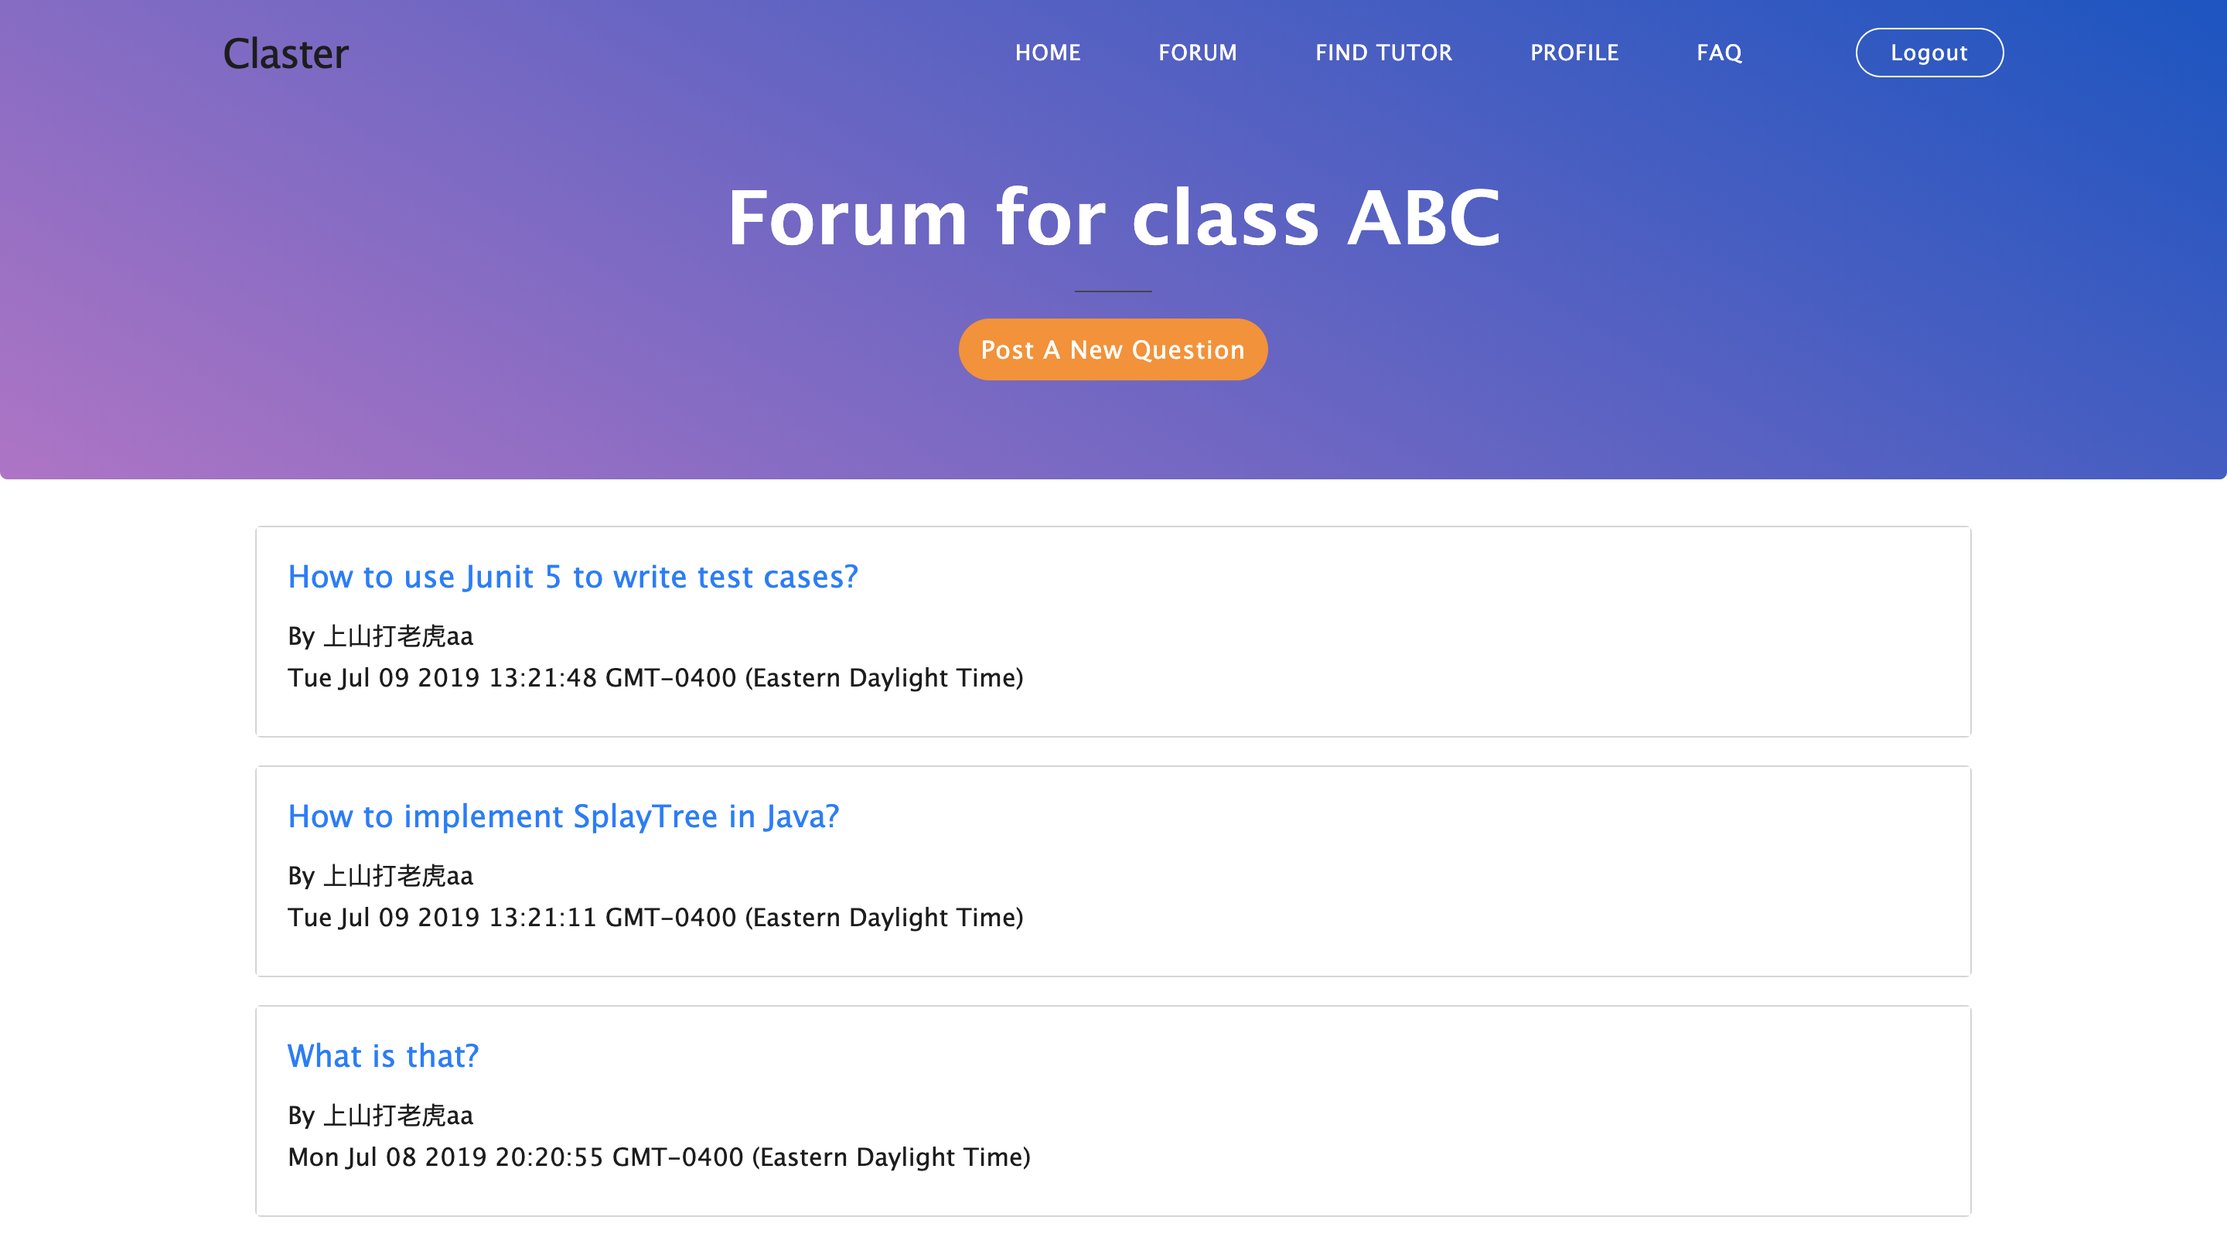
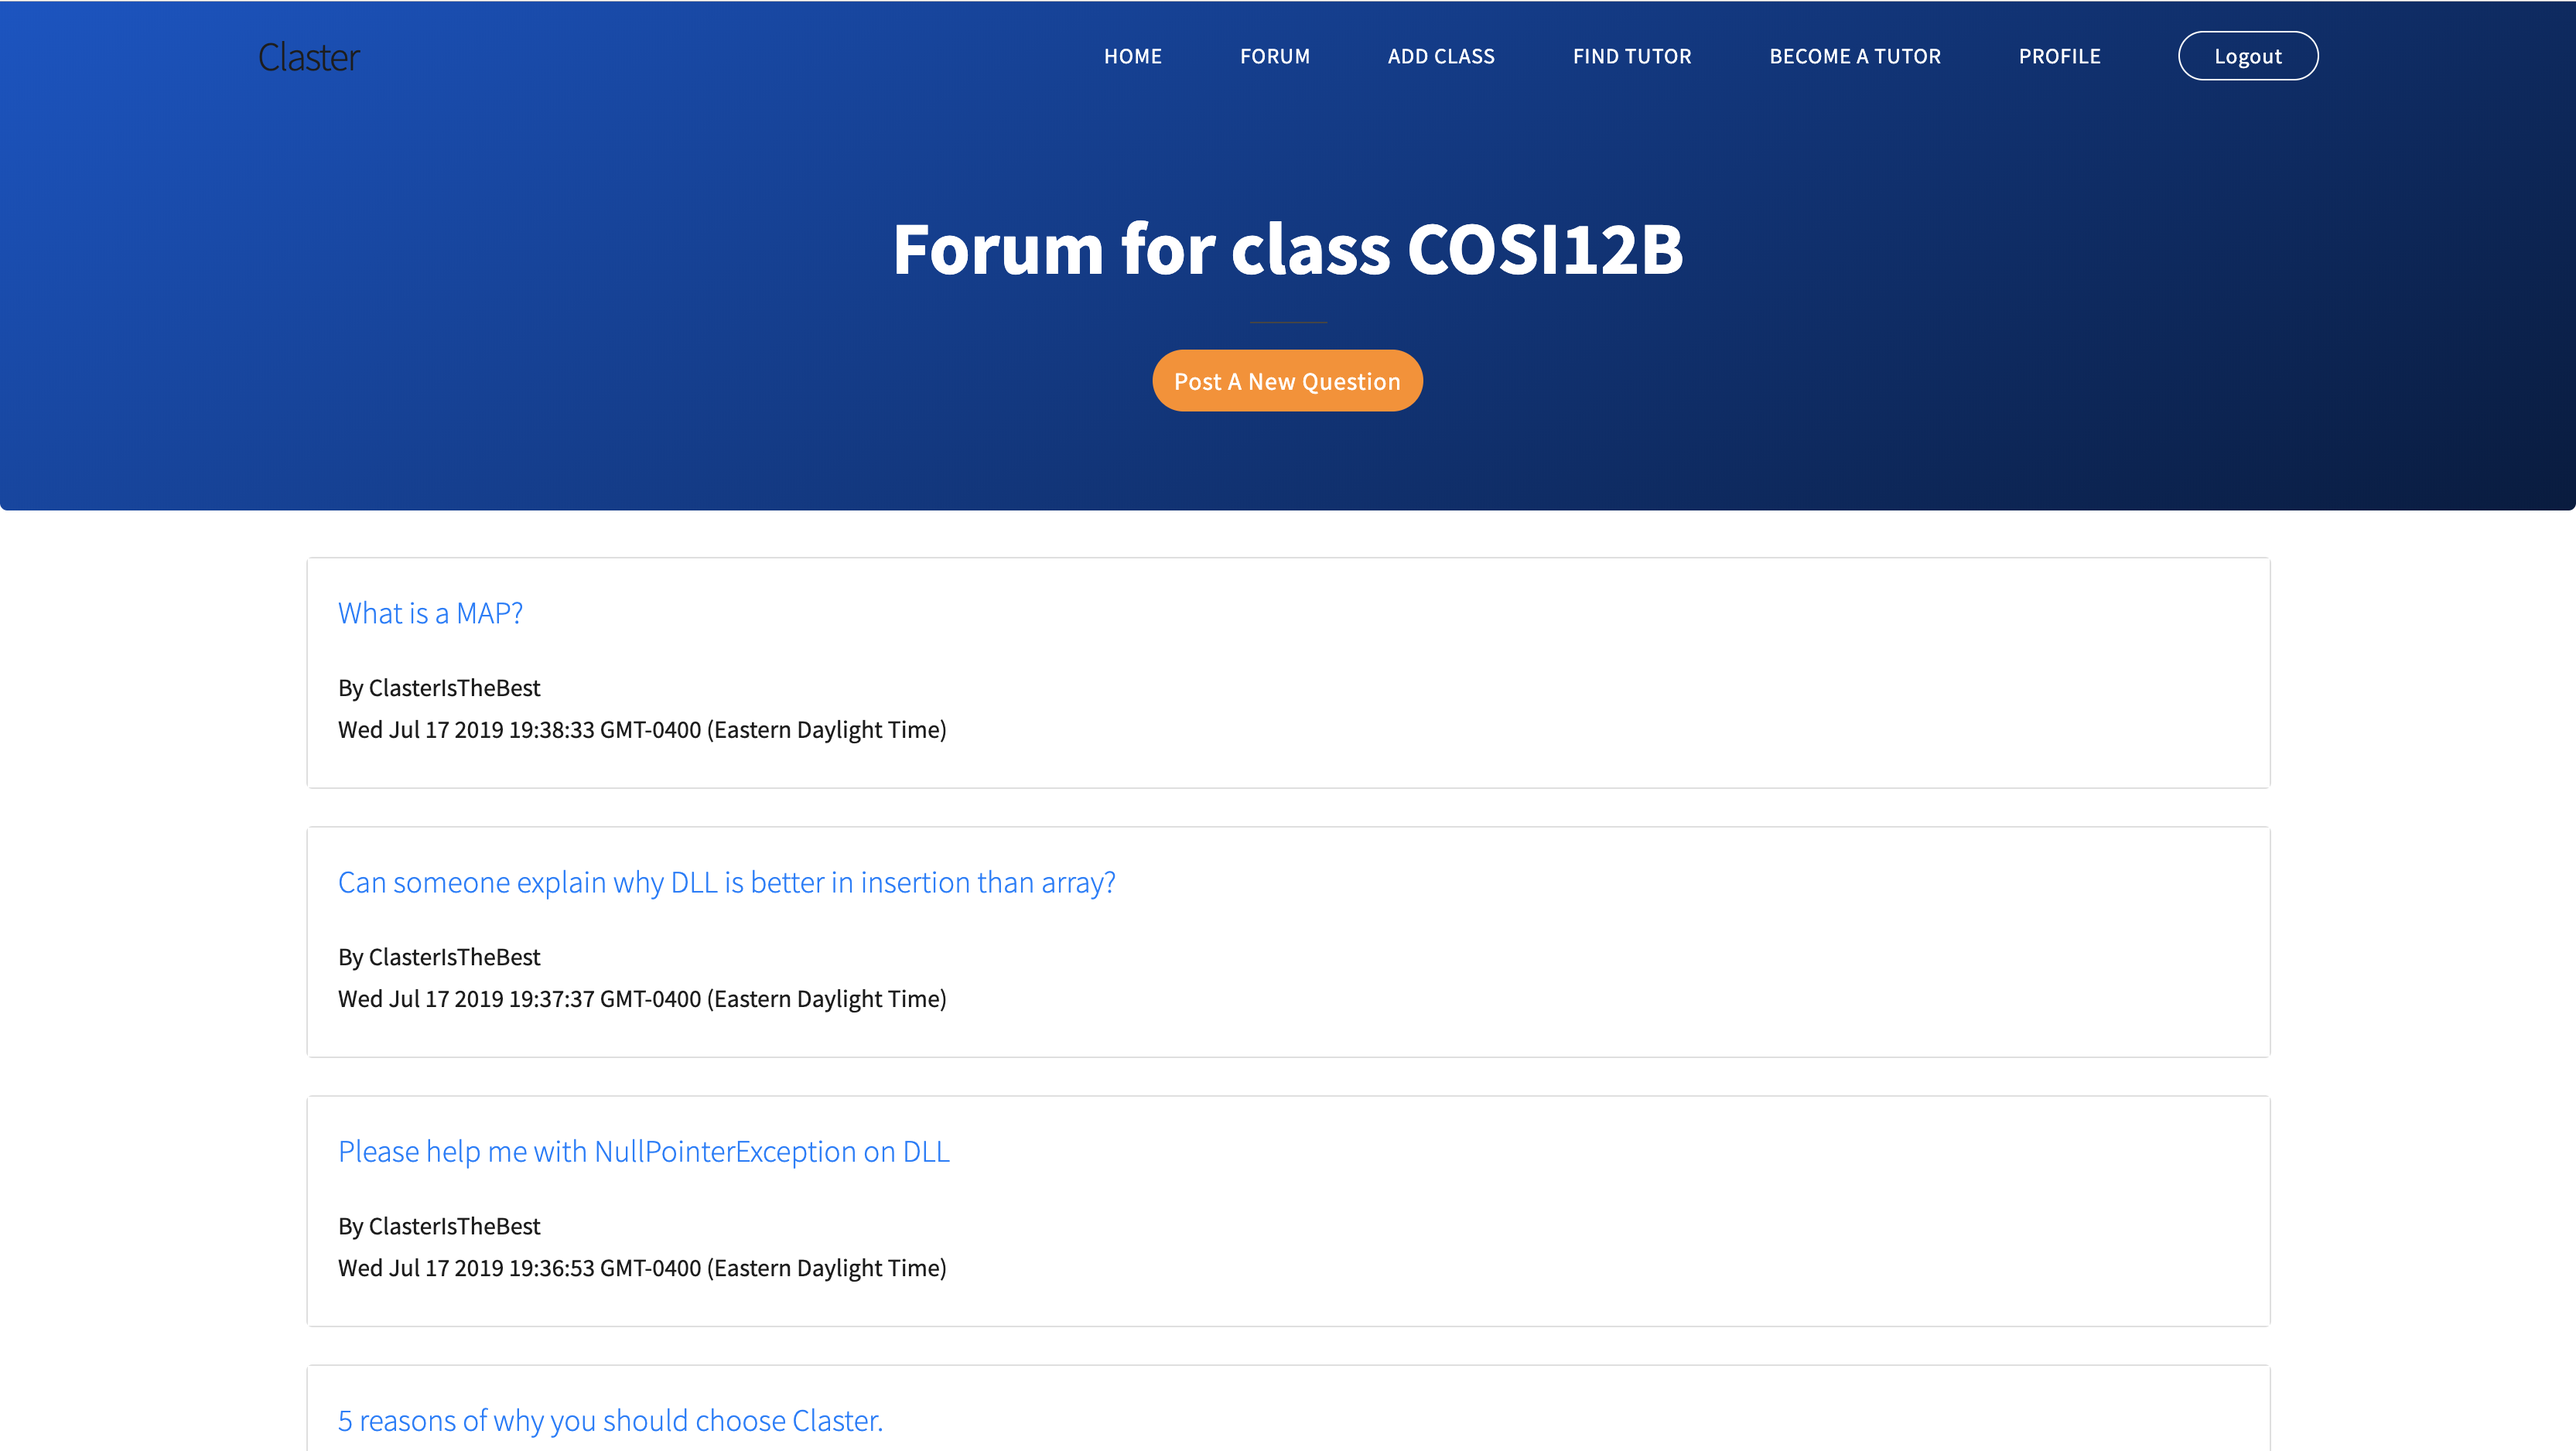
fix sync problem

diff --git a/app.js b/app.js
@@ -10,6 +10,7 @@ var logger = require('morgan');
 session = require("express-session"),
 bodyParser = require("body-parser"),
 User = require( './models/User' ),
+Answer = require( './models/Answer' ),
 flash = require('connect-flash')
 
 
@@ -52,6 +53,8 @@ db.once('open', function() {
 
 //start the app.js
 var app = express();
+
+//set up AWS S3
 const aws = require('aws-sdk');
 
 /*
@@ -64,7 +67,6 @@ aws.config.region = 'us-east-2';
 * Load the S3 information from the environment variables.
 */
 const S3_BUCKET = process.env.S3_BUCKET;
-
 
 // view engine setup
 app.set('views', path.join(__dirname, 'views'));
@@ -183,6 +185,11 @@ function isLoggedIn(req, res, next) {
 
 // END OF THE Google AUTHENTICATION ROUTES
 
+
+// =====================================
+// INDEX ===============================
+// =====================================
+
 //we can use this or the index router to handle req
 app.get('/', function(req, res, next){
   res.render('index', {
@@ -193,17 +200,19 @@ app.get('/', function(req, res, next){
 app.post('/:userId/enroll', isLoggedIn, classController.lookupClass, classController.addClass);
 
 // =====================================
-// Class =============================
+// Class ===============================
 // =====================================
-
-app.get('/classNotFound', isLoggedIn, function(req, res, next){
-  res.render('classNotFound')
-})
 
 //create new classes
 app.get('/classes', isLoggedIn, classController.getAllClasses)
 
+//process the form
 app.post('/createClass', isLoggedIn, classController.checkUnique, classController.saveClass);
+
+//error handle
+app.get('/classNotFound', isLoggedIn, function(req, res, next){
+  res.render('classNotFound')
+})
 
 // =====================================
 // Profile =============================
@@ -215,29 +224,21 @@ app.get('/myProfile/:id', isLoggedIn, profileController.showMyProfile)
 // we require them to be logged in to edit their profile
 app.get('/editMyProfile/:id', isLoggedIn, profileController.showOldProfile)
 
-// we require them to be logged in to register their tutor profile
-app.get('/tutorRegister/:id', isLoggedIn, profileController.showOldProfile)
-
 //update personal profile
 app.post('/updateProfile/:id', isLoggedIn, profileController.updateProfile)
 
-//update personal profile
-app.post('/upload/:id', profileController.upload)
+//show all profiles from all users
+app.get('/showProfiles', isLoggedIn, profileController.getAllProfiles)
+
+//show personal profile
+app.get('/showProfile/:id', isLoggedIn, profileController.getOneProfile);
 
 /*
-* Respond to GET requests to /account.
-* Upon request, render the 'account.html' web page in views/ directory.
-*/
-app.get('/account', isLoggedIn, function(req, res, next){
-  res.render('account')
-})
-
-/*
-* Respond to GET requests to /sign-s3.
+* Respond to GET requests to /signAWS.
 * Upon request, return JSON containing the temporarily-signed S3 request and
 * the anticipated URL of the image.
 */
-app.get('/sign-s3', (req, res) => {
+app.get('/signAWS', (req, res) => {
   const s3 = new aws.S3();
   const fileName = req.query['file-name'];
   const fileType = req.query['file-type'];
@@ -268,7 +269,7 @@ app.get('/sign-s3', (req, res) => {
 * This function needs to be completed to handle the information in
 * a way that suits your application.
 */
-app.post('/save-details', (req, res) => {
+app.post('/saveProfileImage', (req, res) => {
   const imageURL = req.body.imageURL
   //find the user using user_id
   User.findOne(res.locals.user._id)
@@ -277,6 +278,8 @@ app.post('/save-details', (req, res) => {
     profile.profilePicURL = imageURL
     profile.save();
   })
+  Answer.updateMany({userId:req.user._id},{profilePicURL:req.body.imageURL},{multi:true})
+  .exec()
   .then(() => {
     res.redirect('back')
   })
@@ -287,20 +290,6 @@ app.post('/save-details', (req, res) => {
   })
 });
 
-//show all profiles from all users
-app.get('/showProfiles', isLoggedIn, profileController.getAllProfiles)
-
-//show personal profile
-app.get('/showProfile/:id', isLoggedIn, profileController.getOneProfile);
-
-//tutor profile related
-// we require them to be logged in to edit their profile
-app.get('/editMyTutorProfile/:id', isLoggedIn, tutorController.showOldTutorProfile)
-
-//update personal profile
-app.post('/updateTutorProfile/:id', isLoggedIn, tutorController.updateTutorProfile)
-
-
 // =====================================
 // Location ============================
 // =====================================
@@ -310,7 +299,6 @@ app.post('/updateTutorProfile/:id', isLoggedIn, tutorController.updateTutorProfi
 app.get('/location', function(req, res, next){
   res.render('location')
 })
-
 
 
 // =====================================
@@ -345,20 +333,18 @@ app.post('/showQuestion/:id/answerDelete',qAndaController.deleteAnswer)
 //add thumbs up to answers
 app.post('/showQuestion/:id/answerLikes',qAndaController.likesAdded)
 
-//about page
-app.get('/about', function(req, res, next){
-  res.render('about')
-})
 
-//about page
-app.get('/emptyError', function(req, res, next){
-  res.render('emptyError')
-})
+// =====================================
+// TUTOR ===============================
+// =====================================
 
-//FAQ page
-app.get('/FAQ', function(req, res, next){
-  res.render('FAQ')
-})
+
+//tutor profile related
+// we require them to be logged in to edit their profile
+app.get('/editMyTutorProfile/:id', isLoggedIn, tutorController.showOldTutorProfile)
+
+//update personal profile
+app.post('/updateTutorProfile/:id', isLoggedIn, tutorController.updateTutorProfile)
 
 //tutor rating
 app.get('/tutorRating', function(req, res, next){
@@ -369,8 +355,29 @@ app.get('/tutorRating', function(req, res, next){
 app.get('/tutorRegister', function(req, res, next){
   res.render('tutorRegister')
 })
+
 app.post('/processTutorRegister', isLoggedIn, tutorController.saveTutor)
 
+
+// =====================================
+// STATIC PAGES ========================
+// =====================================
+
+
+//about page
+app.get('/about', function(req, res){
+  res.render('about')
+})
+
+//empty error page
+app.get('/emptyError', function(req, res){
+  res.render('emptyError')
+})
+
+//FAQ page
+app.get('/FAQ', function(req, res){
+  res.render('FAQ')
+})
 
 // catch 404 and forward to error handler
 app.use(function(req, res, next) {

diff --git a/controllers/profileController.js b/controllers/profileController.js
@@ -1,6 +1,8 @@
 'use strict';
 const User = require( '../models/User' );
 const Question = require( '../models/Question' );
+const Answer = require( '../models/Answer' );
+
 
 //import axios
 const axios = require('axios');
@@ -42,7 +44,7 @@ exports.showOldProfile = ( req, res ) => {
 };
 
 //update personal profile
-exports.updateProfile = ( req, res ) => {
+exports.updateProfile = ( req, res, next) => {
   const goBackURL = '/editMyProfile/' + req.params.id
   if (req.body.userName.length==0 || req.body.status.length==0){
     console.log("empty params detected in profile");
@@ -56,91 +58,21 @@ exports.updateProfile = ( req, res ) => {
   .exec()
   .then((profile) => {
     profile.userName = req.body.userName
-    // profile.profilePicURL = req.body.profilePicURL
-    // profile.zipcode = req.body.zipcode
     profile.status = req.body.status
-    // Make a request for a user with a given ID
-    // axios.get("https://www.zipcodeapi.com/rest/"+apikey.apikey.zipcode+"/info.json/"+profile.zipcode+"/degrees")
-    // .then(function (response) {
-    //   console.log("API data success!")
-    //   // handle success
-    //   console.log(response);
-    //   profile.city = response.data.city
-    //   profile.state = response.data.state
-    //   profile.lastUpdate = new Date()
-    // })
     profile.save()
   })
-  .then(() => {
-    res.redirect('/myProfile/' + id)
-  })
 
-  // handle error
-  .catch(function (error) {
-    console.log("update failed!")
-    console.log(error);
-  })
-};
-
-// //update personal profile
-// exports.updateProfileInQA = ( req, res ) => {
-//   //in the question collection, find the questions with same user
-//   Question.find(res.locals.user._id)
-//   .exec()
-//   .then((question) => {
-//     question.userName = req.body.userName
-//     question.save()
-//   })
-//   .then(() => {
-//     console.log("update success!!");
-//     res.redirect('/myProfile')
-//   })
-//   // handle error
-//   .catch(function (error) {
-//     console.log("update failed!")
-//     console.log(error);
-//   })
-//};
-
-exports.upload = ( req, res ) => {
-  //find the user using user_id
-  User.findOne(res.locals.user._id)
+  // console.log("in update question")
+  console.log("req.body.imageURL: " + req.body.imageURL);
+  Question.updateMany({userId:req.user._id},{userName:req.body.userName},{multi:true})
   .exec()
-  .then((profile) => {
-    let readPath;
-    let sampleFile;
-    let uploadPath;
-
-    if (Object.keys(req.files).length == 0) {
-      res.status(400).send('No files were uploaded.');
-      return;
-    }
-    sampleFile = req.files.sampleFile;
-
-    // console.log("uploadPath: " + uploadPath);
-
-    let reqPath = path.join(__dirname, '../');
-    uploadPath = reqPath + 'public/images/uploads/' + sampleFile.name;
-    // console.log("uploadPath: " + uploadPath);
-
-    sampleFile.mv(uploadPath, function(err) {
-      if (err) {
-        return res.status(500).send(err);
-      }
-    });
-
-    readPath = '/images/uploads/' + sampleFile.name;
-    profile.profilePicURL = readPath;
-    profile.profilePicName = sampleFile.name;
-    profile.save();
-  })
-  .then(() => {
+  Answer.updateMany({userId:req.user._id},{userName:req.body.userName},{multi:true})
+  .exec()
+  .then(()=>{
     res.redirect('back')
   })
-  // handle error
-  .catch(function (error) {
-    console.log("upload image failed!")
-    console.log(error);
+  .catch((error)=>{
+    res.send(error)
   })
 };
 

diff --git a/config/auth.js b/config/auth.js
@@ -2,8 +2,8 @@ module.exports = {
     'googleAuth' : {
         'clientID': '960287962764-sfv4q5pbgngotppbedbkgsqf0u790kam.apps.googleusercontent.com',
         'clientSecret'  : 'grrRchAdcbf2st9eBXUgVBQO',
-         'callbackURL'   : 'http://127.0.0.1:5500/login/authorized'
-        //'callbackURL'   : 'https://iclaster.herokuapp.com/login/authorized'
+         // 'callbackURL'   : 'http://127.0.0.1:5500/login/authorized'
+        'callbackURL'   : 'https://iclaster.herokuapp.com/login/authorized'
 
     }
 };

diff --git a/public/stylesheets/style.css b/public/stylesheets/style.css
@@ -3,8 +3,6 @@
 /*===============================================*/
 
 
-
-
 #map {
   height: 90%;
 }
@@ -125,9 +123,6 @@ LEVEL 2. SETTINGS
 
 .card-header{
   background-color: white;
-
-
-
 }
 
 /* input span and input area style */
@@ -180,7 +175,7 @@ LEVEL 2. SETTINGS
 }
 
 .diagonal-gradient {
-  background: linear-gradient(to top right, #ff7aca, #0a52c7);
+  background: linear-gradient(to top left, black, #0a52c7);
 }
 
 .card-body{
